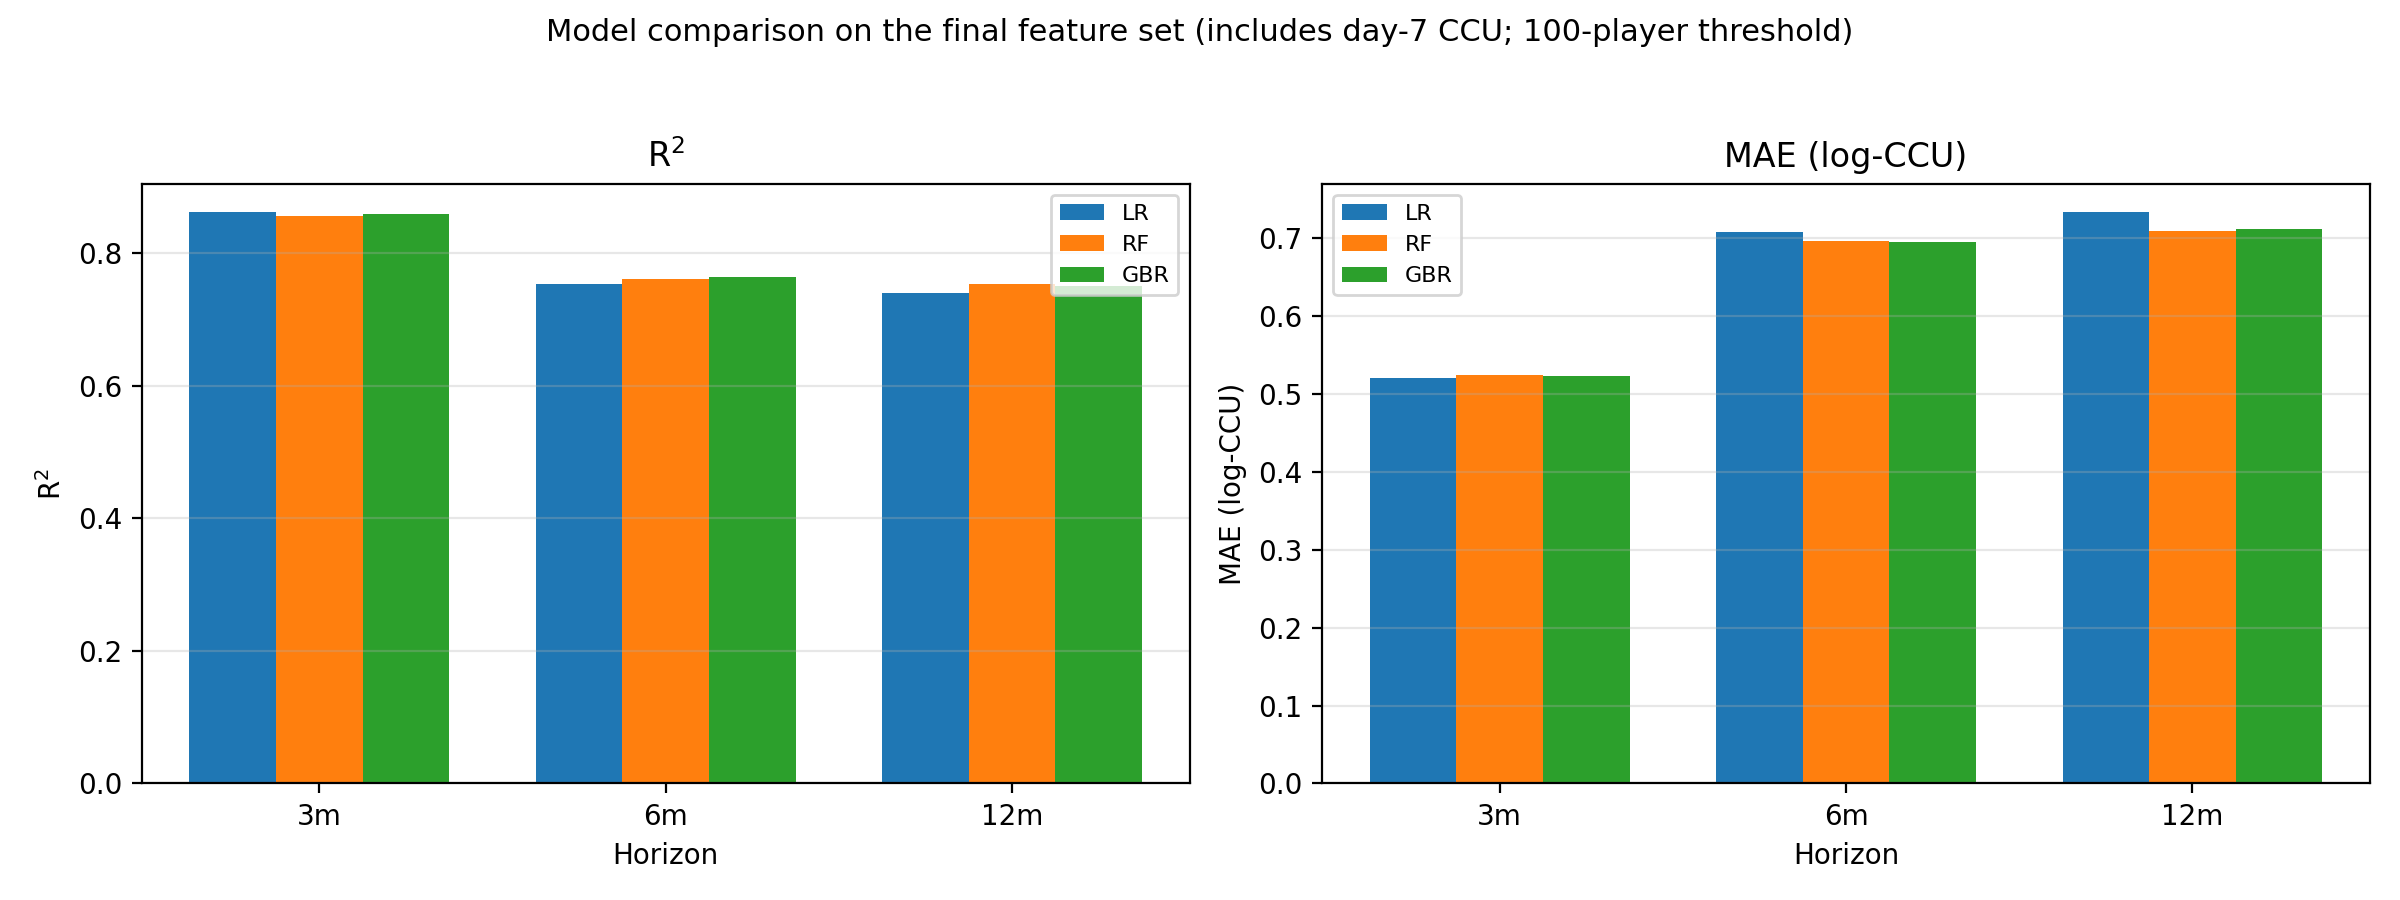
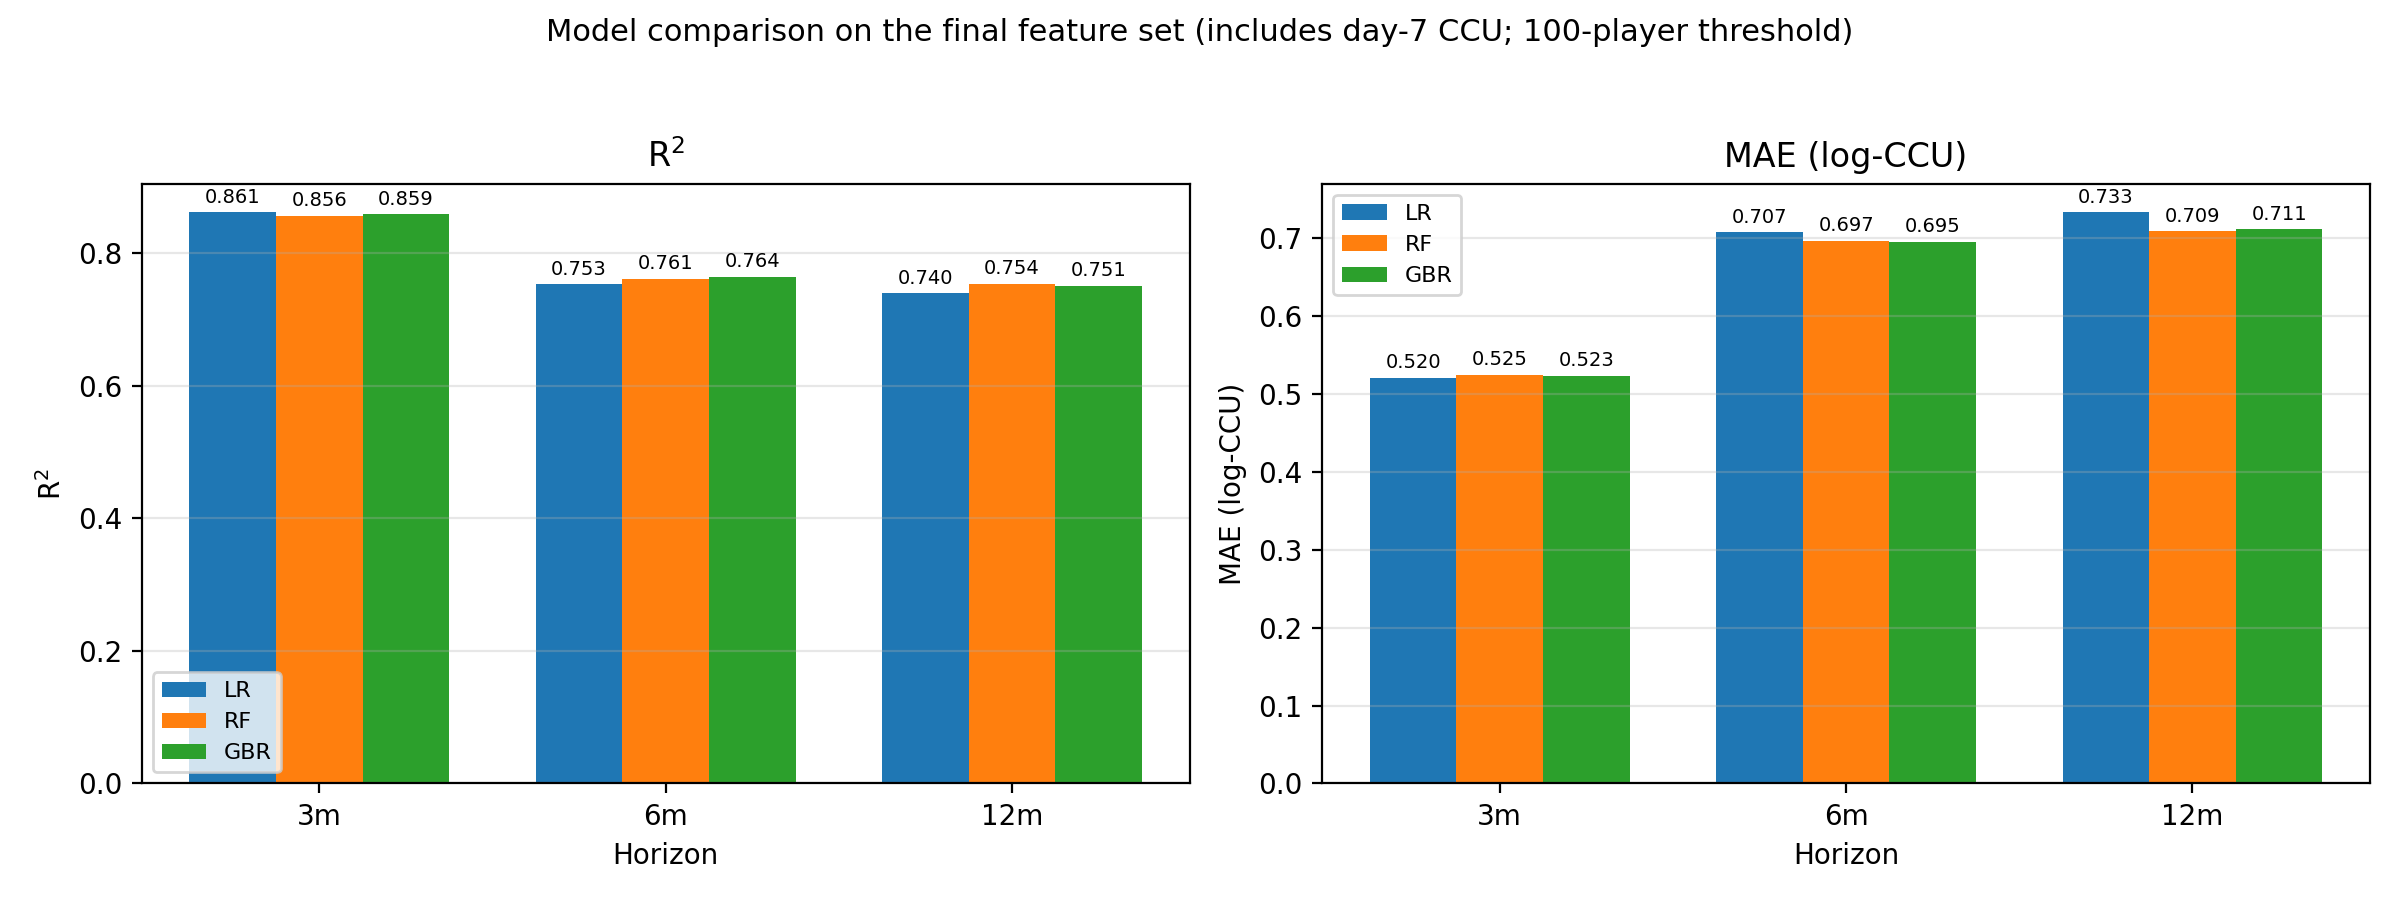
chore(visualisation): annotate model-comparison bars with values
The model-comparison figure shows LR/RF/GBR results that sit within 1-2%
of each other. Without numbers on the bars the visual differences are
invisible, hiding that LR is actually the best at 3m (R^2=0.861) and
that RF/GBR each win the longer horizons by a small margin.

Added .3f value annotations above each bar to make the ordering legible.

diff --git a/visualisation/audit_plots.py b/visualisation/audit_plots.py
@@ -341,7 +341,17 @@ def figure_2_model_comparison() -> None:
         ax = axes[col]
         for i, model_name in enumerate(models):
             vals = [results[(h, True, model_name)][metric_key] for h in horizons]
-            ax.bar(x + i * width - width, vals, width, label=model_name)
+            bars = ax.bar(x + i * width - width, vals, width, label=model_name)
+            for bar, v in zip(bars, vals):
+                ax.annotate(
+                    f"{v:.3f}",
+                    xy=(bar.get_x() + bar.get_width() / 2, bar.get_height()),
+                    xytext=(0, 2),
+                    textcoords="offset points",
+                    ha="center",
+                    va="bottom",
+                    fontsize=7,
+                )
         ax.set_xticks(x)
         ax.set_xticklabels(horizons)
         ax.set_title(metric_label)